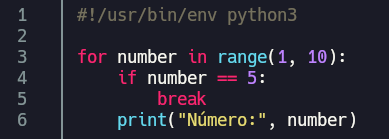
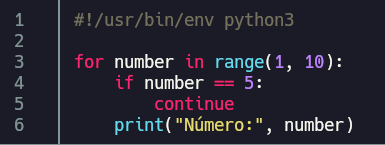
1

diff --git a/_posts/2025-04-29-bucles-condicionales.md b/_posts/2025-04-29-bucles-condicionales.md
@@ -94,7 +94,7 @@ Pero modificamos el código para que cuando el bucle llegue al número 3, se det
 
 ![](/assets/images/python/48.png)
 
-- **continue**: esta declaración ignora una parte del código y pasa a la siguiete vuelta de bucle
+- **continue**: esta declaración ignora una parte del código y pasa a la siguiete vuelta de bucle, en este ejemplo hay un bucle que muestra un rango de números del 1 al 9, al llegar al número 5, no solo muestra, es decir, se salta ese número y sigue mostrando los números restantes:
 
 ![](/assets/images/python/49.png)
 
